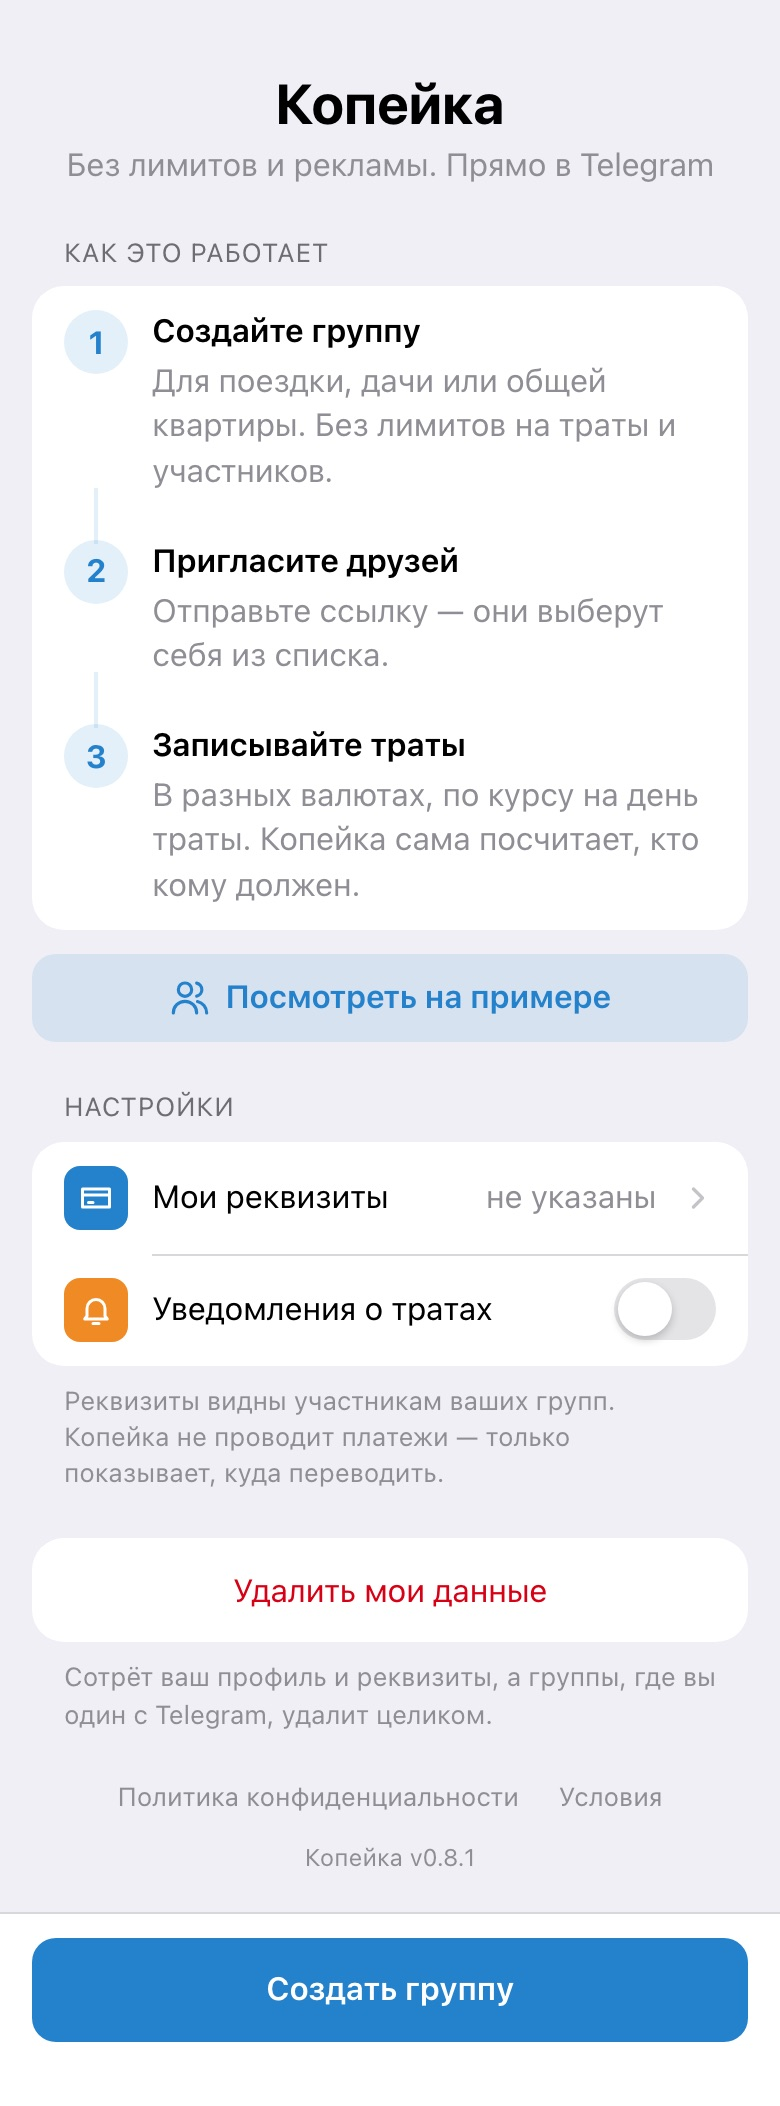
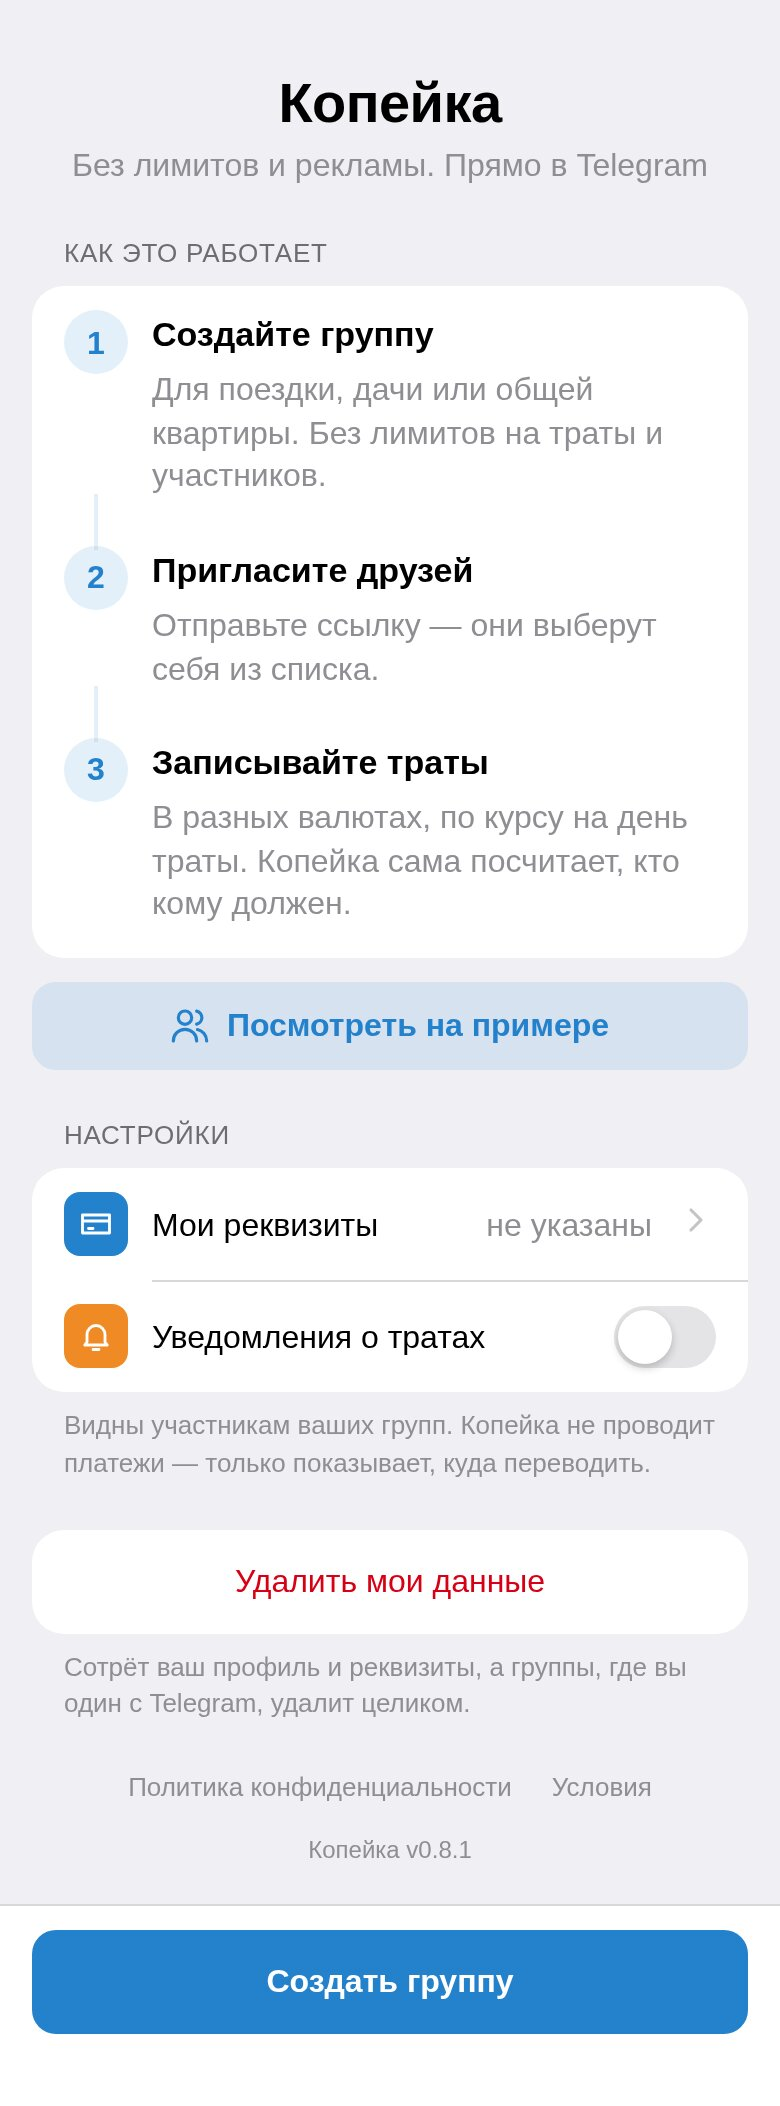
Дизайн v1: рендеры экранов по актуальным макетам Doop

diff --git a/design/v1/README.md b/design/v1/README.md
@@ -4,7 +4,7 @@
 
 - **Этот файл** — правила: токены, шкалы, иконки, компоненты, паттерны, состояния, тексты.
 - **[`v1.css`](v1.css)** — те же токены и компоненты в CSS. Этим кодом нарисованы макеты.
-- **[`screens/`](screens)** — рендеры 24 экранов (390 px, ×2): эталон компоновки.
+- **[`screens/`](screens)** — рендеры 24 экранов (390 px, ×2): эталон компоновки. Обновлены 30 октября 2026 по макетам Doop, синхронизированным с кодом.
 - **Холст** с «Как сейчас» и v1 рядом: [claude.ai/artifact/HHWPpvqerihPHh5bCBPYqo](https://claude.ai/artifact/HHWPpvqerihPHh5bCBPYqo) (доступ у владельца).
 - **Doop** — рабочие HTML-макеты всех 24 экранов рядом с эталонами: [doop.design/c/bCI9GJFCBF](https://doop.design/c/bCI9GJFCBF). Здесь дорабатываем дизайн до кода; порядок работы — навык [`.claude/skills/doop-design`](../../.claude/skills/doop-design/SKILL.md).
 
